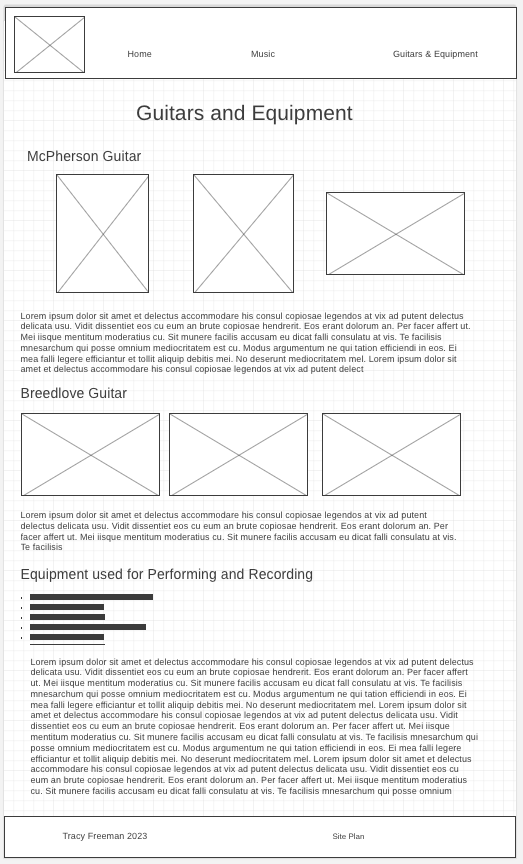
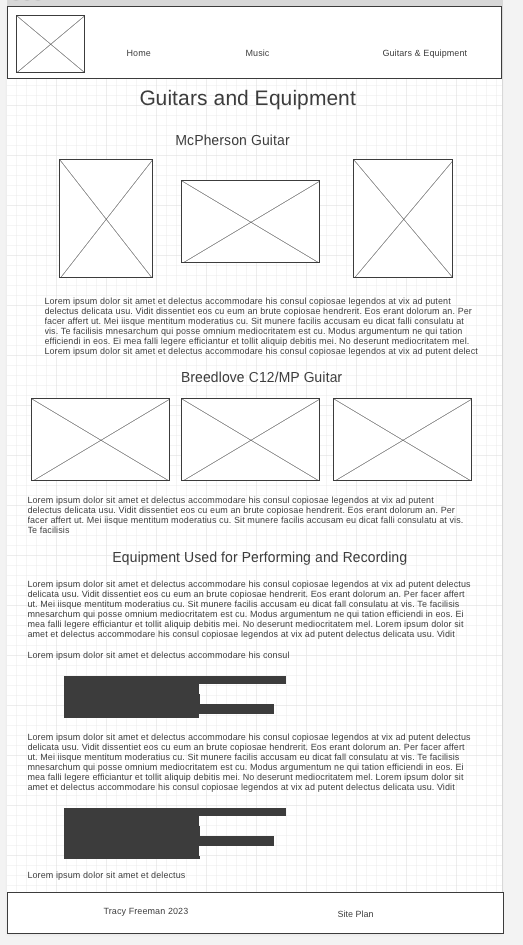
wireframe updates

diff --git a/kyleacoustic/site-plan.html b/kyleacoustic/site-plan.html
@@ -273,20 +273,26 @@
         The logo will be circular in shape and have a small padding and then a colored border. 
         Navigation links will change font color, background color and underline on hover.
         The page background will be in color. 
-        The header will contain sticky navbar enabling the body content to scroll behind the header. 
+        The header will be a sticky header enabling the body content to scroll behind the header. 
       </p>
       <img src="images/kyleacoustic_wireframe_home.png" alt="home page wireframe">
 
       <h3>MUSIC</h3>
       <p>         
-        The page background will be in color.
+        The logo will be circular in shape and have a small padding and then a colored border. 
+        Navigation links will change font color, background color and underline on hover.
+        The page background will be in color. 
+        The header will be a sticky header enabling the body content to scroll behind the header.
         Each song title will open a new link to an external site for option to play the song.
       </p>
       <img src="images/kyleacoustic_wireframe_page2.png" alt="page 2 wireframe">
 
       <h3>GUITARS & EQUIPMENT</h3>
       <p>         
-        [Any additional details about page 3 that the wireframe does not make clear]
+        The logo will be circular in shape and have a small padding and then a colored border. 
+        Navigation links will change font color, background color and underline on hover.
+        The page background will be in color. 
+        The header will be a sticky header enabling the body content to scroll behind the header.
       </p>
       <img src="images/kyleacoustic_wireframe_page3.png" alt="page 3 wireframe">
     </main>

diff --git a/kyleacoustic/guitarsandequipment.html b/kyleacoustic/guitarsandequipment.html
@@ -32,7 +32,7 @@
                 </p>
                 </div>
 
-                <h2 id="breedlove-title">Breedlove C12/MP</h2>
+                <h2 id="breedlove-title">Breedlove C12/MP Guitar</h2>
                 
                     <img id="breedlove1" src="images/breedlove1.jpeg" alt="Breedlove 1">
                     <img id="breedlove2" src="images/breedlove2.jpeg" alt="Breedlove 2">
